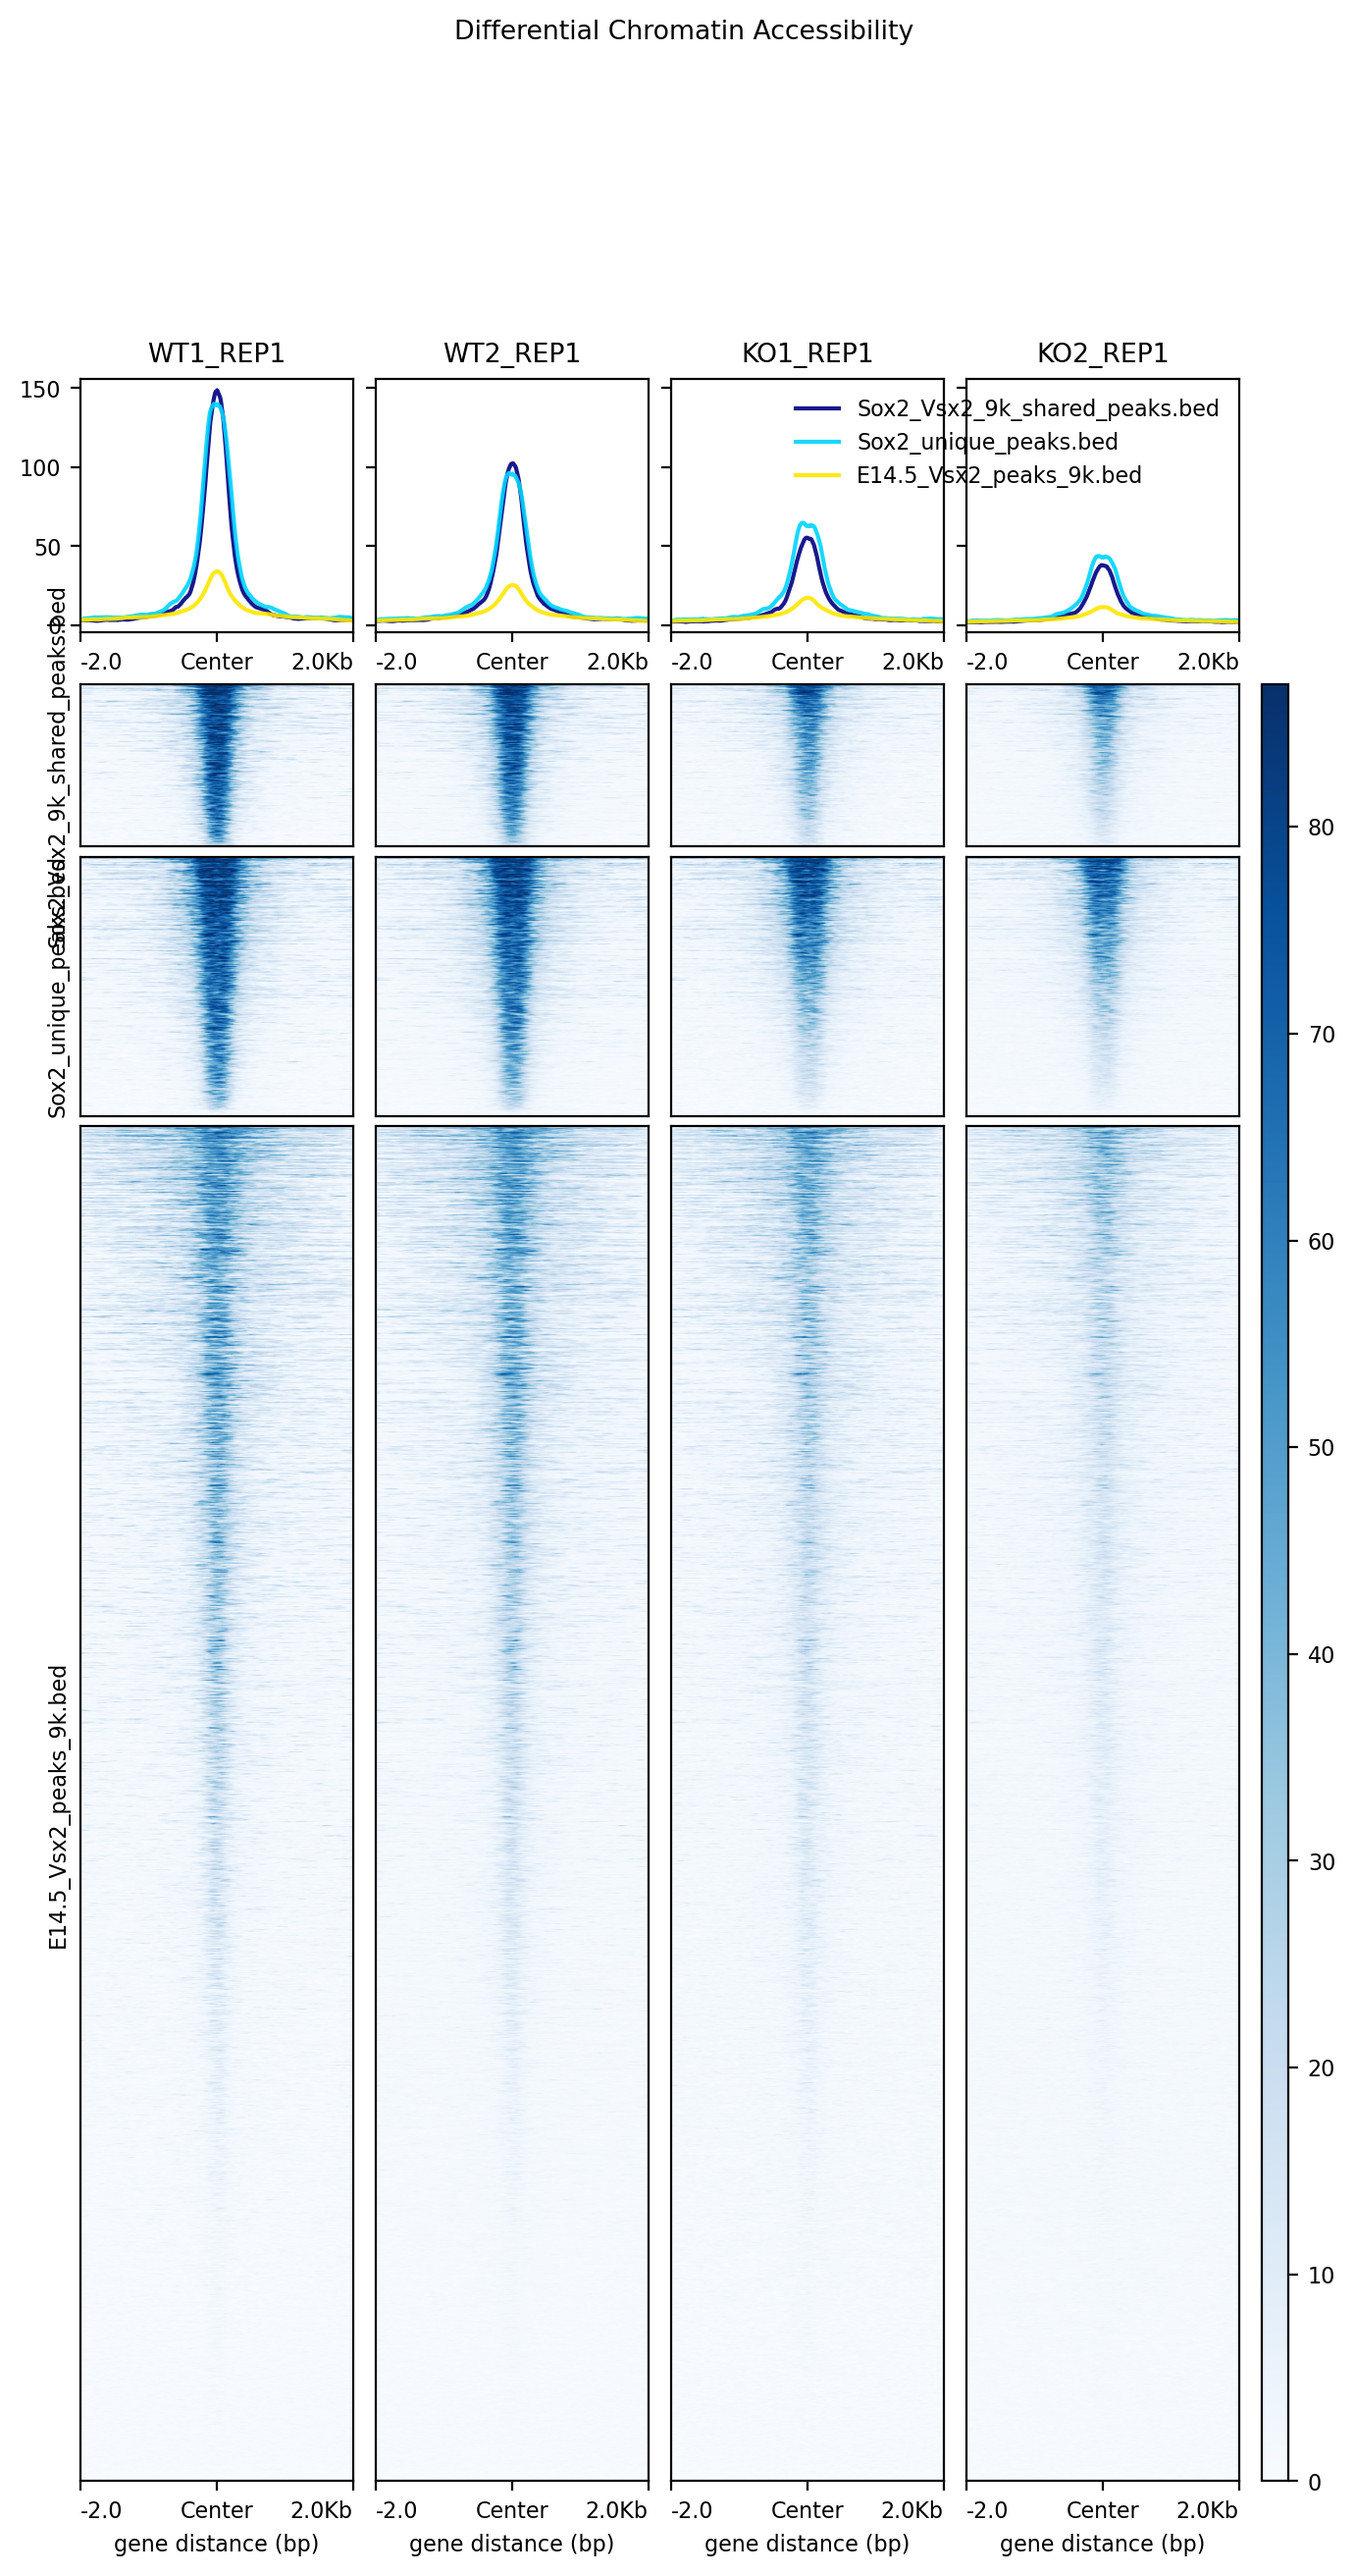
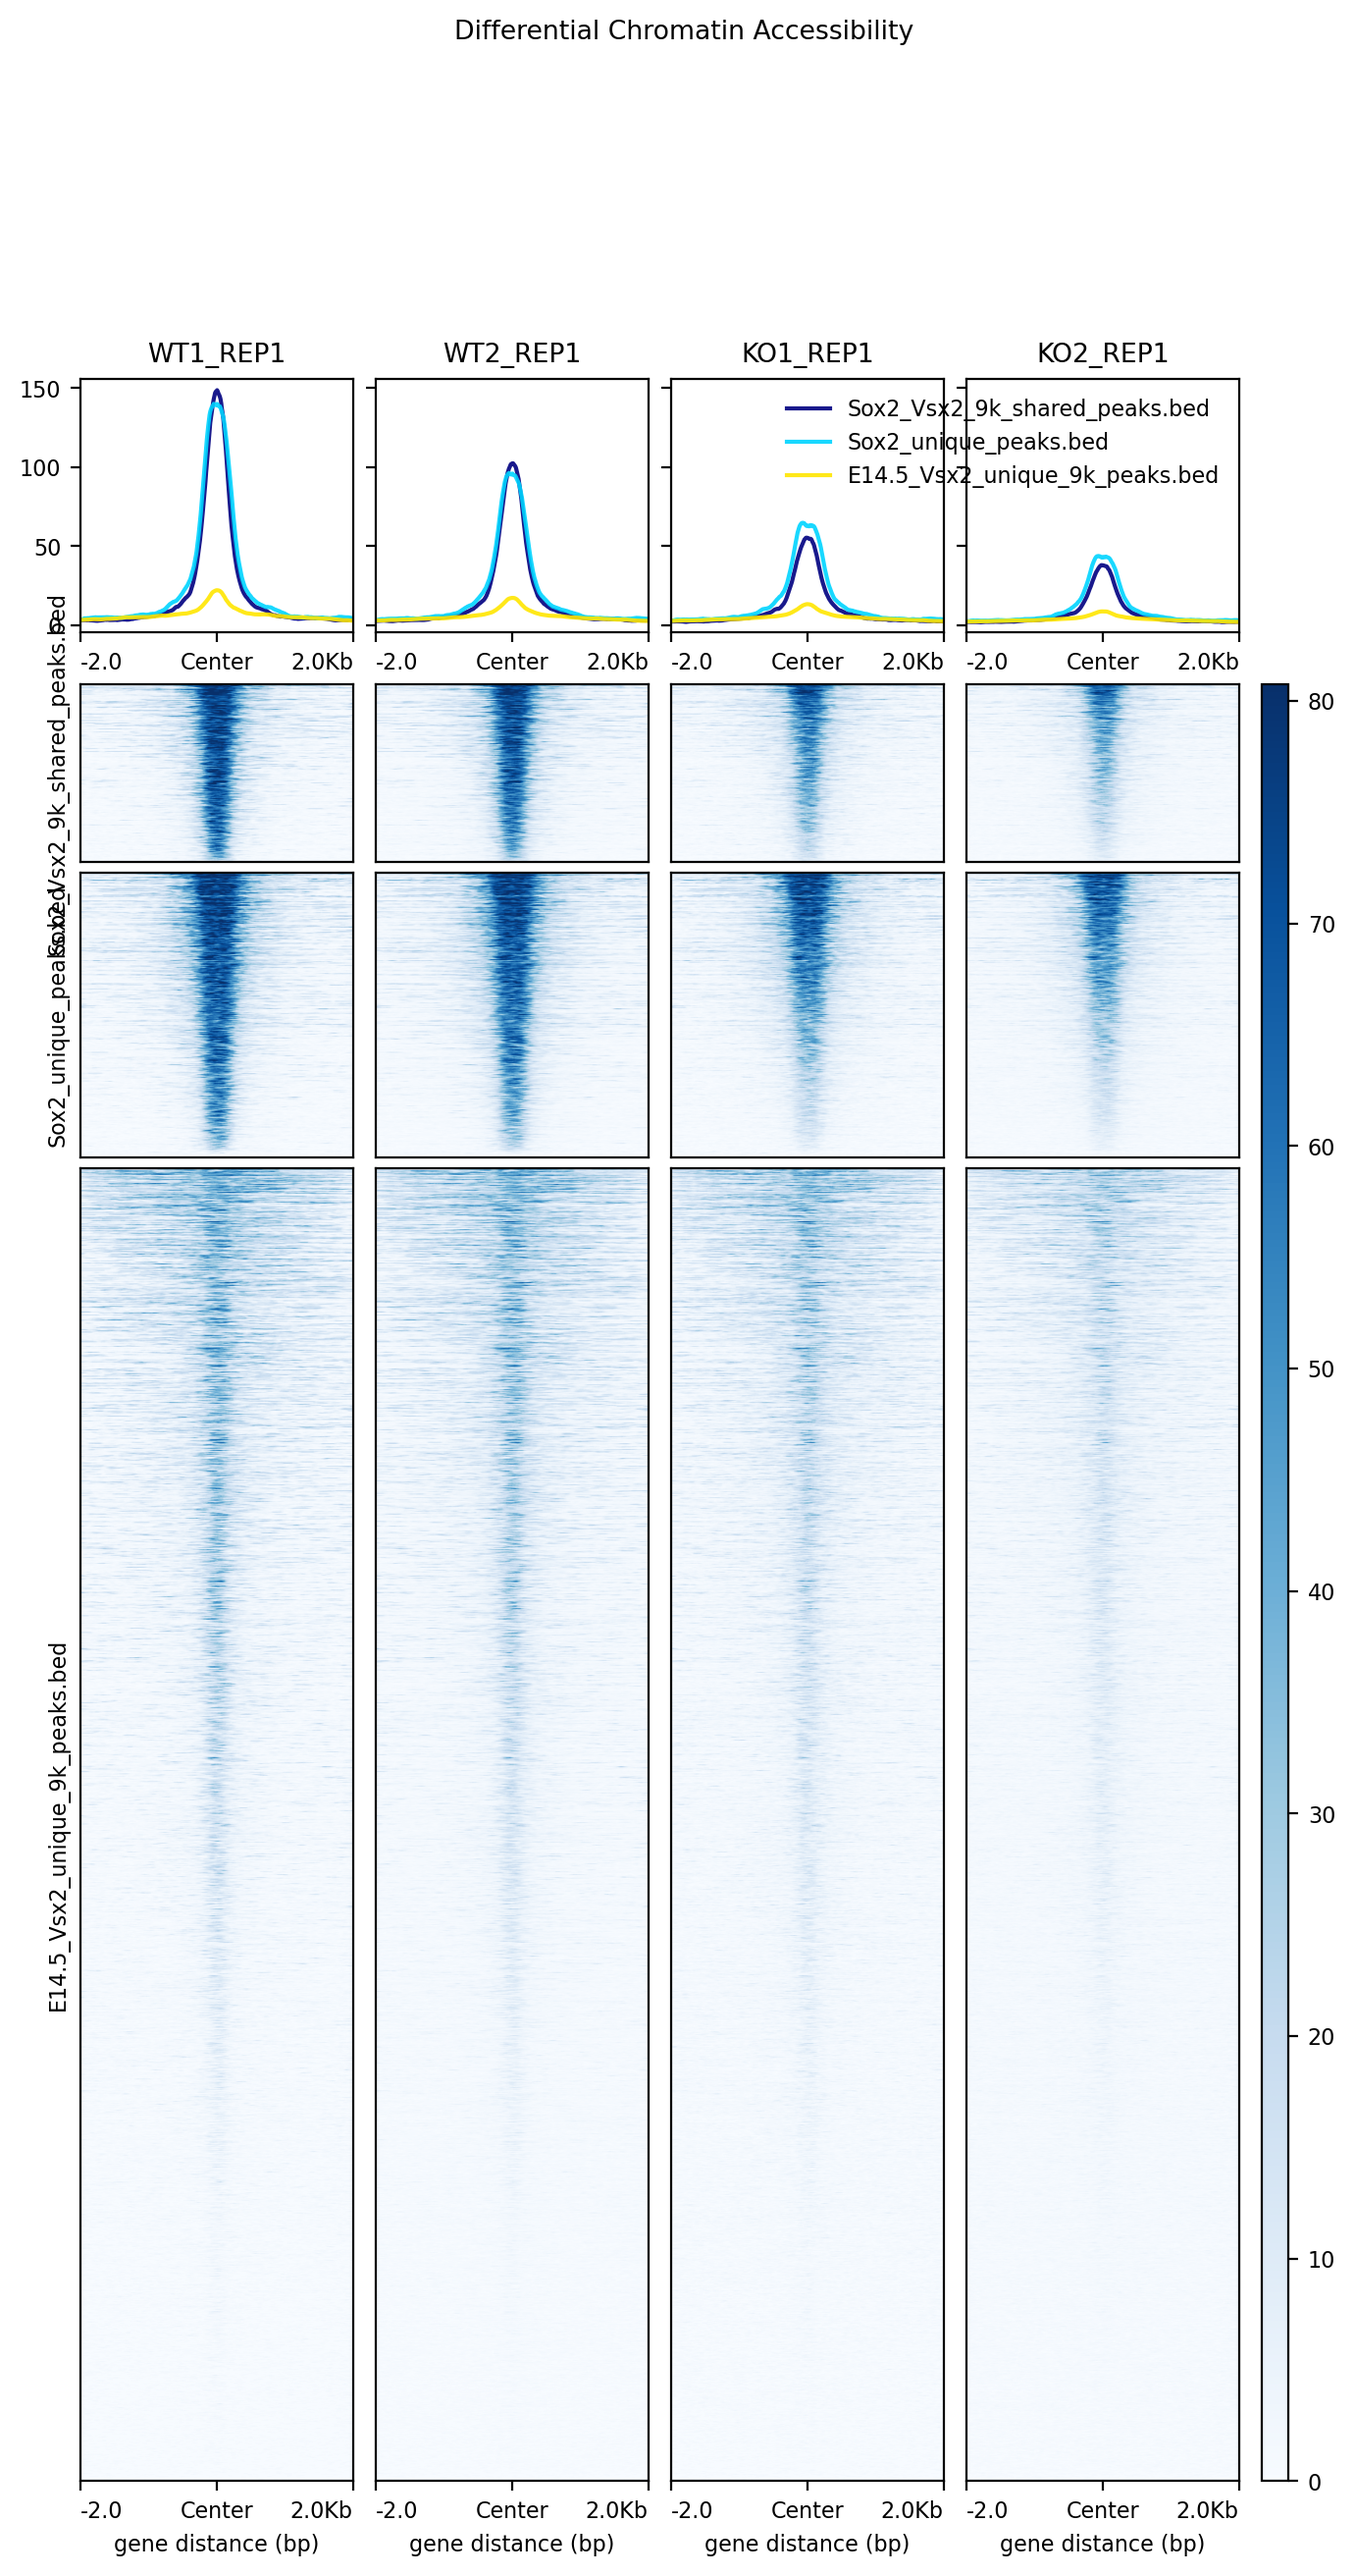
Added plot readme's and edited plots

diff --git a/ATAC-Seq/Plots/README.md b/ATAC-Seq/Plots/README.md
@@ -1,0 +1,31 @@
+# SOX2 ATAC-Seq Peak Files
+
+### sox2_vsx2_shared.bed
+
+This file contains all the peaks that are shared from Sox2 C&R and Vsx2 ChIP 
+
+### sox2_unique_peaks.bed
+
+This file contains all Sox2 C&R peaks that are unique from Vsx2 ChIP peaks.  
+
+### vsx2_unique_peaks.bed
+
+This file contains all Vsx2 peaks that are unique from Sox2 C&R peaks
+
+## E14.5 Vsx2 Files
+These files are specific to the E14.5 Vsx2 files supplied from previous data
+
+### Sox2_Vsx2_9k_shared_peaks.bed
+This file contains shared peaks from Sox2 C&R and E14.5 Vsx2 Peaks
+
+### E14.5_Vsx2_unique_9k_peaks.bed
+This file contains peaks unique to the Vsx2 9k peaks from Sox2 C&R
+
+### Sox2_ATAC_WT_consensus.bed 
+This file contians the consensus peaks from the 2 Sox2 WT ATAC samples
+
+### Sox2_ATAC_WT_CR_bound.bed 
+This file contains the shared peaks between the 2 Sox2 WT ATAC samples and Sox2 C&R consensus peaks. This file should contain all Sox2 ATAC peaks that are also bound by Sox2
+
+### Sox2_ATAC_WT_CR_unbound.bed 
+This file contains the Sox2 WT ATAC peaks that are not bound by Sox2. 

diff --git a/CR_Chip-Seq/Plots/README.md b/CR_Chip-Seq/Plots/README.md
@@ -1,0 +1,24 @@
+# SOX2 CUT&RUN and Vsx2 ChIP-Seq Peak Files
+
+### sox2_vsx2_shared.bed
+
+This file contains all the peaks that are shared from Sox2 C&R and Vsx2 ChIP 
+
+### sox2_unique_peaks.bed
+
+This file contains all Sox2 C&R peaks that are unique from Vsx2 ChIP peaks.  
+
+### vsx2_unique_peaks.bed
+
+This file contains all Vsx2 peaks that are unique from Sox2 C&R peaks
+
+## E14.5 Vsx2 Files
+These files are specific to the E14.5 Vsx2 files supplied from previous data
+
+### Sox2_Vsx2_9k_shared_peaks.bed
+This file contains shared peaks from Sox2 C&R and E14.5 Vsx2 Peaks
+
+### E14.5_Vsx2_unique_9k_peaks.bed
+This file contains peaks unique to the Vsx2 9k peaks from Sox2 C&R
+
+
